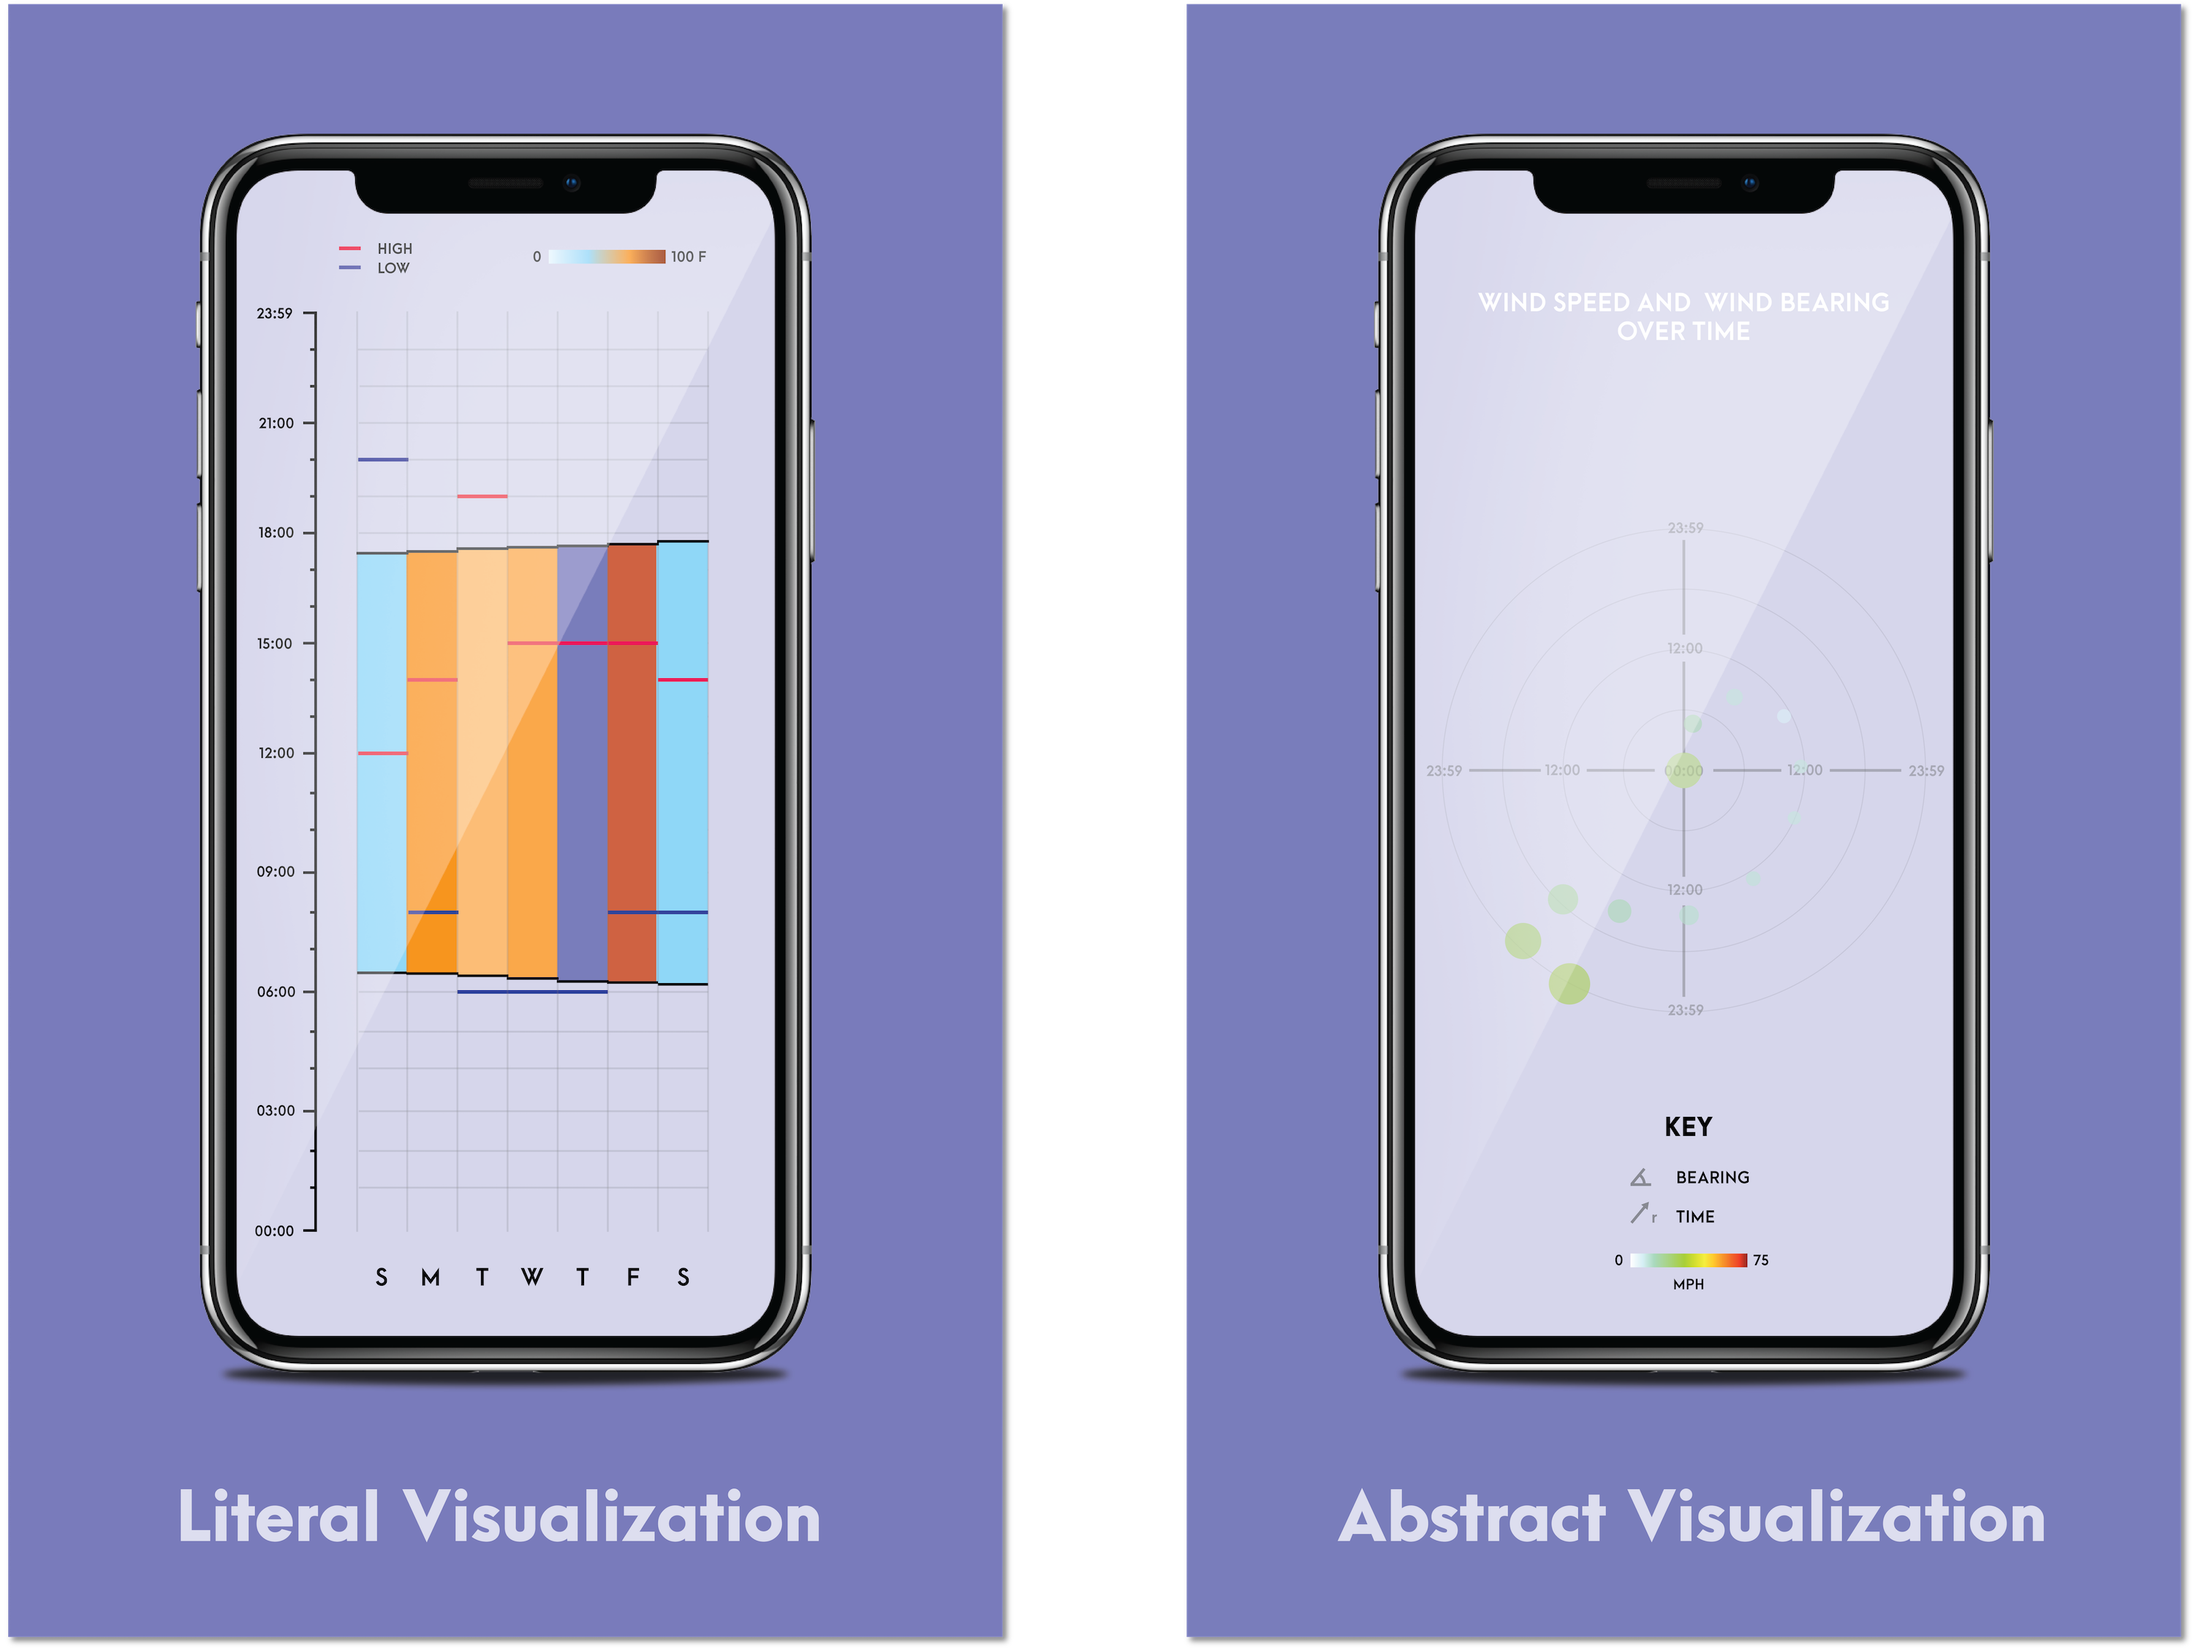
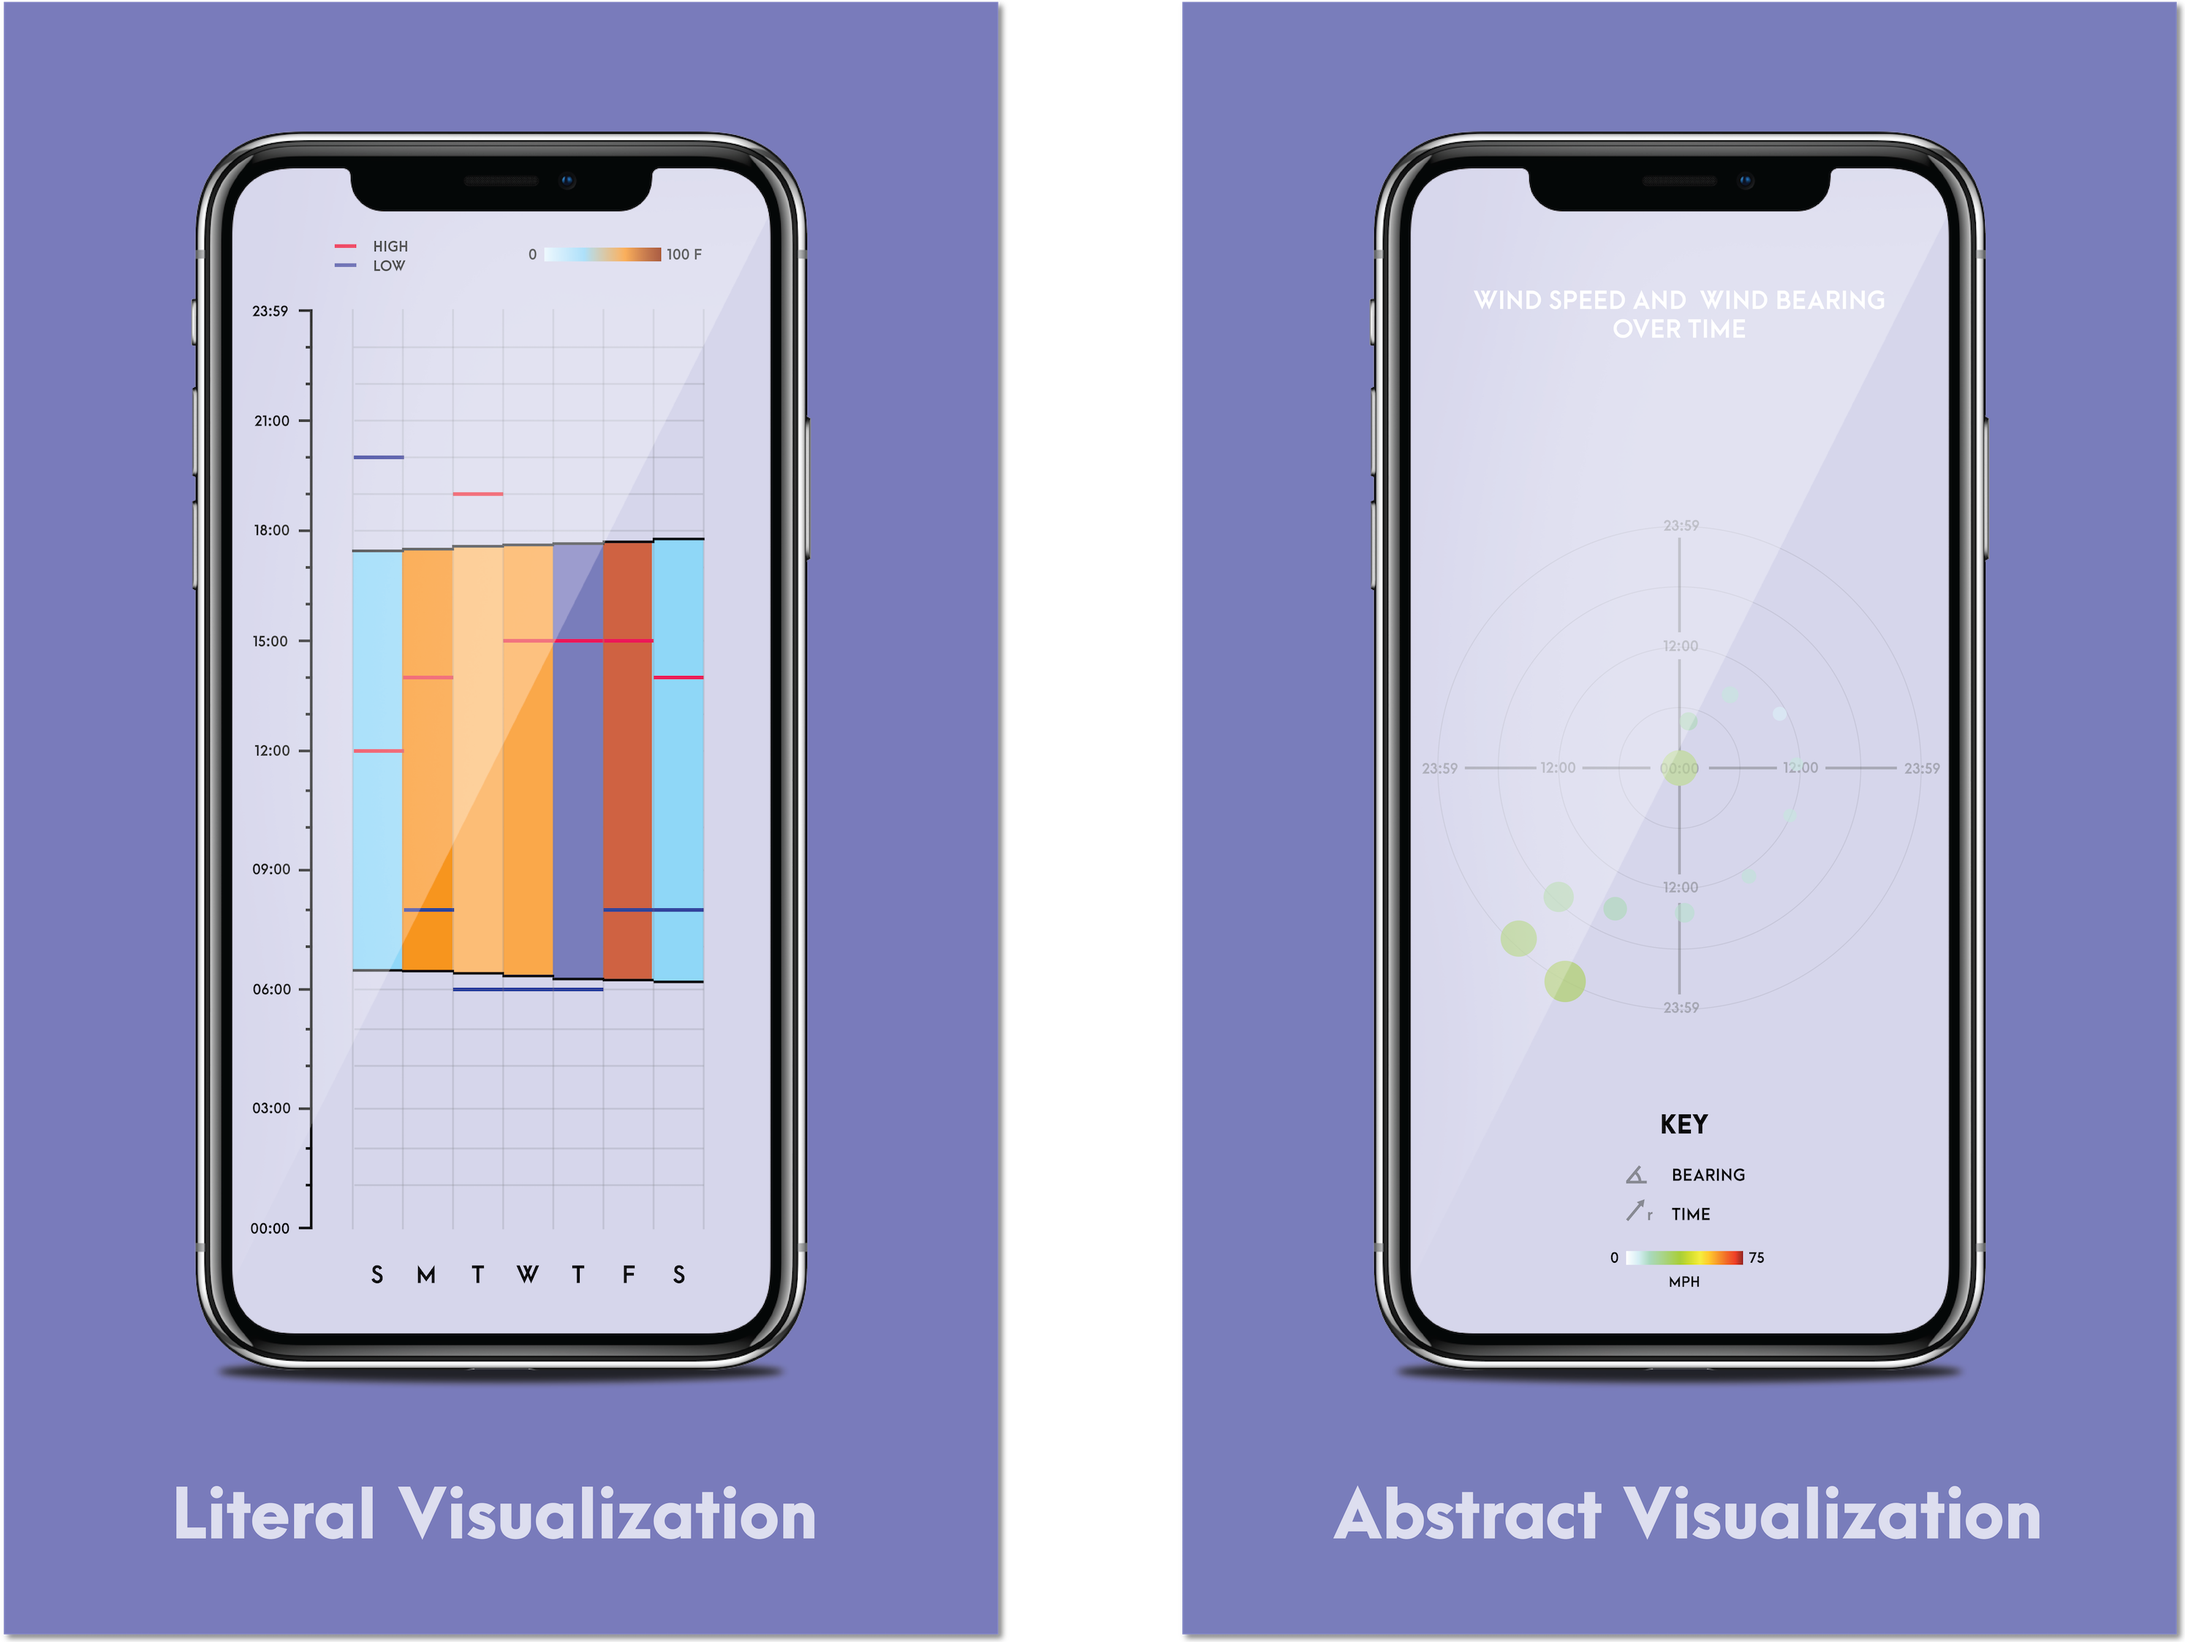
edited style

diff --git a/Project_2/assets/style.css b/Project_2/assets/style.css
@@ -77,7 +77,7 @@ button {
 .subheader {
     font-size: 1.2em;
     font-weight: 300;
-	color: var(--cream);
+	color: var(--mid-gray);
     margin: 20px 50px;
 }
 
@@ -114,7 +114,7 @@ button {
 }
 
 .sketch-container img {
-    height: 400px;
+    width: 25vw;
     margin: 0 25px;
     
 }
@@ -128,7 +128,7 @@ button {
 }
 
 .mockup-container img {
-    width: 80vw;
+    height: 85vh;
 }
 
 .visualization-container {
